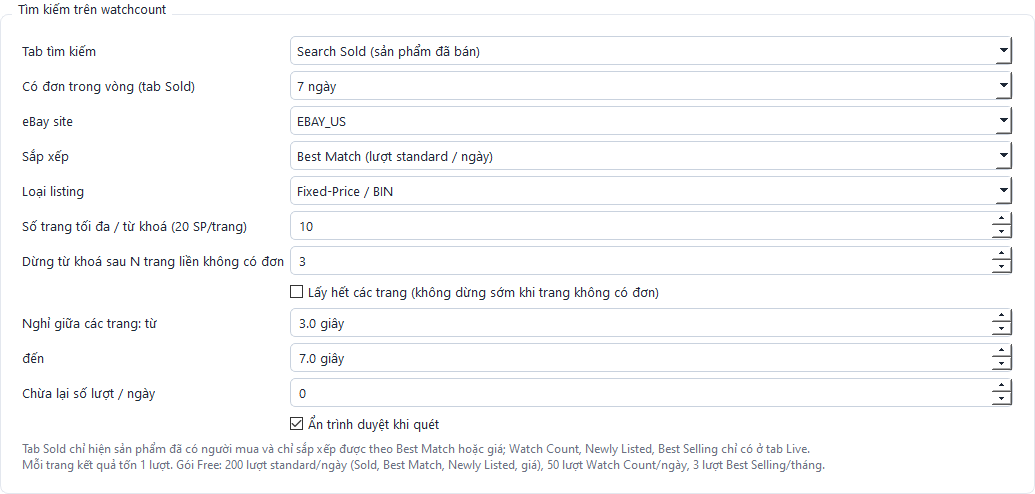
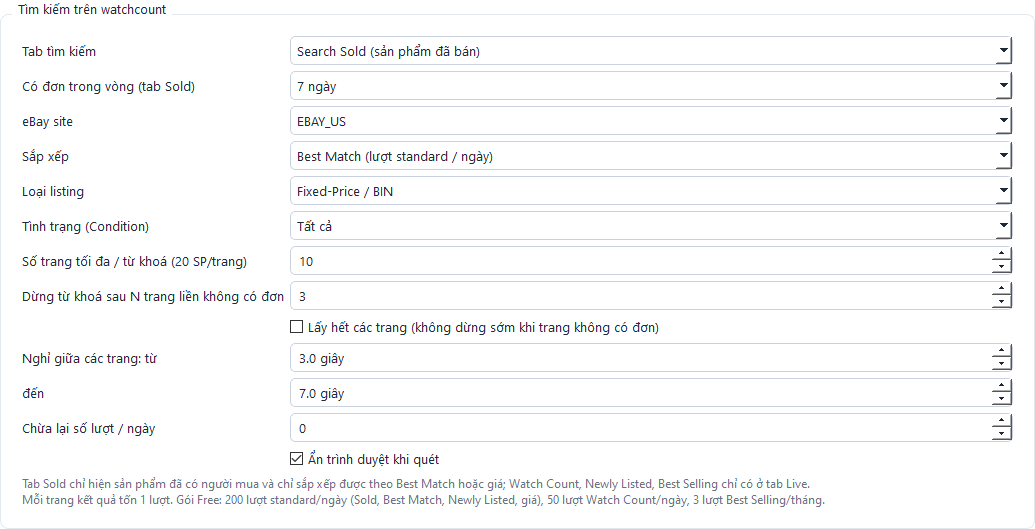
Thêm bộ lọc Condition + hướng dẫn cào giống link watchcount (v0.4.2)
Kiểm tra link sold/Personalized+suncatcher/-/all?condition=new&lastSoldDate=30days:
tool chưa gửi condition nên ra 169 thay vì 165, và bộ lọc mặc định Start <= 7 chỉ
giữ 1/167 sản phẩm. Sau khi thêm Condition và để trống bộ lọc, tool lấy 167 sản phẩm
qua 9 trang, link tool mở trùng với link web (trừ offset).

- Cài đặt quét: ô Tình trạng (Condition) Tất cả / New / Used, gửi tham số condition
- Log: ghi "link trang 1" của mỗi từ khoá để mở trên web so kết quả
- Hướng dẫn: mục 6 "Cào ra kết quả giống một link watchcount" (bảng đọc link, các
  bước chỉnh cài đặt, ảnh cài đặt và nhật ký), thêm câu hỏi "Tool ra ít hơn web"
- docs/watchcount-recon.md: giá trị condition và số liệu kiểm tra; tests: 73 test

diff --git a/tools/make_guide_images.py b/tools/make_guide_images.py
@@ -5,6 +5,7 @@ App chạy ẩn trên một thư mục data tạm với dữ liệu mẫu (tools
 database, phiên đăng nhập hay autostart thật. Ảnh sản phẩm tải từ eBay nên cần mạng.
 Ảnh trang xác minh reCAPTCHA chụp bằng Playwright với một profile trình duyệt mới.
 """
+import copy
 import json
 import sys
 import tempfile
@@ -112,6 +113,19 @@ def shoot_app() -> None:
     save(group(settings, "Bộ lọc"), "settings_filters.png")
     save(group(settings, "Chung"), "settings_general.png")
 
+    # 3b. Cài đặt khớp link mẫu ở mục "Cào giống một link watchcount" của trang Hướng dẫn
+    saved = copy.deepcopy(settings.cfg)
+    settings.cfg["search"].update(status="sold", last_sold_within="30days", site="EBAY_US", sort_by="bestmatch",
+                                  listing_type="all", condition="new", max_pages=10, stop_after_empty_pages=0)
+    for rule in settings.cfg["scan_filters"]:
+        rule["value"] = None
+    settings.load_from_config()
+    save(group(settings, "Tìm kiếm"), "link_search.png")
+    save(group(settings, "Bộ lọc"), "link_filters.png")
+    settings.cfg.clear()
+    settings.cfg.update(saved)
+    settings.load_from_config()
+
     # 4. Lịch quét
     win.nav.setCurrentRow(3)
     save(win, "schedule.png")
@@ -137,6 +151,25 @@ def shoot_app() -> None:
         win._log(line)
     win.nav.setCurrentRow(4)
     save(win, "log.png")
+
+    # 6b. Nhật ký của lần quét khớp link mẫu (số liệu thật, quét ngày 2026-10-05)
+    win.log_page.text.clear()
+    link = ("https://www.watchcount.com/sold/Personalized+suncatcher/-/all"
+            "?condition=new&lastSoldDate=30days&site=EBAY_US&sortBy=bestmatch")
+    for line in ["Bắt đầu quét (thủ công)", "Đang mở trình duyệt... (tab Sold)",
+                 "Lượt tìm kiếm còn lại (standard): 188",
+                 "[1/1] 'Personalized suncatcher' — tối đa 10 trang",
+                 f"   link trang 1: {link}",
+                 "   trang 1: 20 sản phẩm (20 mới), 20 đạt bộ lọc (tổng kết quả: 165)",
+                 "   trang 2: 20 sản phẩm (20 mới), 20 đạt bộ lọc (tổng kết quả: 165)",
+                 "   trang 3: 20 sản phẩm (20 mới), 20 đạt bộ lọc (tổng kết quả: 164)",
+                 "   trang 4: 20 sản phẩm (19 mới), 20 đạt bộ lọc (tổng kết quả: 164)",
+                 "   ...",
+                 "   trang 9: 11 sản phẩm (10 mới), 11 đạt bộ lọc (tổng kết quả: 165)",
+                 "Kết thúc (completed): 167 sản phẩm, 167 đạt bộ lọc, dùng 9 lượt"]:
+        win._log(line)
+    win.log_page.text.setFixedSize(1000, 235)
+    save(win.log_page.text, "link_log.png")
     win.tray.hide()
     win.close()
 

diff --git a/app/ui/pages/settings_page.py b/app/ui/pages/settings_page.py
@@ -78,6 +78,9 @@ class SettingsPage(QWidget):
         self.site = QComboBox()
         self.site.addItems(watchcount.SITES)
         self.sort_by = QComboBox()
+        self.condition = QComboBox()
+        for key, label in watchcount.CONDITIONS.items():
+            self.condition.addItem(label, key)
         self.listing_type = QComboBox()
         for key, label in watchcount.LISTING_TYPES.items():
             self.listing_type.addItem(label, key)
@@ -93,6 +96,7 @@ class SettingsPage(QWidget):
         form.addRow("eBay site", self.site)
         form.addRow("Sắp xếp", self.sort_by)
         form.addRow("Loại listing", self.listing_type)
+        form.addRow("Tình trạng (Condition)", self.condition)
         form.addRow("Số trang tối đa / từ khoá (20 SP/trang)", self.max_pages)
         form.addRow("Dừng từ khoá sau N trang liền không có đơn", self.stop_after_empty)
         form.addRow("", self.take_all_pages)
@@ -172,6 +176,7 @@ class SettingsPage(QWidget):
         self._fill_sorts(s["sort_by"])
         self.site.setCurrentText(s["site"])
         self.listing_type.setCurrentIndex(max(0, self.listing_type.findData(s["listing_type"])))
+        self.condition.setCurrentIndex(max(0, self.condition.findData(s.get("condition") or "")))
         self.max_pages.setValue(int(s["max_pages"]))
         take_all = int(s["stop_after_empty_pages"]) <= 0
         self.take_all_pages.setChecked(take_all)
@@ -192,6 +197,7 @@ class SettingsPage(QWidget):
         s["site"] = self.site.currentText()
         s["sort_by"] = self.sort_by.currentData()
         s["listing_type"] = self.listing_type.currentData()
+        s["condition"] = self.condition.currentData()
         if s["sort_by"] == "bestselling":
             s["listing_type"] = "fixedprice"  # watchcount only allows best selling on fixed-price listings
         s["max_pages"] = self.max_pages.value()

diff --git a/app/scraper/watchcount.py b/app/scraper/watchcount.py
@@ -51,6 +51,8 @@ LAST_SOLD_OPTIONS = {
     "": "Không giới hạn", "1day": "1 ngày", "2days": "2 ngày", "3days": "3 ngày", "7days": "7 ngày",
     "14days": "14 ngày", "30days": "30 ngày", "45days": "45 ngày", "60days": "60 ngày",
 }
+# bộ lọc "Condition" (tình trạng hàng) của watchcount, dùng cho cả hai tab
+CONDITIONS = {"": "Tất cả", "new": "New (hàng mới)", "used": "Used (hàng đã dùng)"}
 LISTING_TYPES = {"fixedprice": "Fixed-Price / BIN", "all": "Tất cả", "auction": "Đấu giá", "bestoffer": "Best Offer"}
 SITES = ["EBAY_US", "EBAY_GB", "EBAY_AU", "EBAY_CA", "EBAY_DE", "EBAY_FR", "EBAY_IT", "EBAY_ES"]
 
@@ -130,7 +132,8 @@ def valid_sort(status: str, sort_by: str) -> str:
 
 def build_search_url(keyword: str, site: str = "EBAY_US", sort_by: str = "bestmatch",
                      listing_type: str = "fixedprice", start_within: str | None = None, offset: int = 0,
-                     *, status: str = "live", last_sold_within: str | None = None) -> str:
+                     *, status: str = "live", last_sold_within: str | None = None,
+                     condition: str | None = None) -> str:
     status = status if status in STATUS_OPTIONS else "live"
     sort_params, _ = _SORT_PARAMS[valid_sort(status, sort_by)]
     params = {"site": site, **sort_params}
@@ -138,6 +141,8 @@ def build_search_url(keyword: str, site: str = "EBAY_US", sort_by: str = "bestma
         params["startTimeFrom"] = start_within
     if status == "sold" and last_sold_within:
         params["lastSoldDate"] = last_sold_within
+    if condition:
+        params["condition"] = condition
     if offset:
         params["offset"] = str(offset)
     query = "&".join(f"{k}={quote(str(v), safe='')}" for k, v in sorted(params.items()))

diff --git a/tests/test_core.py b/tests/test_core.py
@@ -362,6 +362,15 @@ def test_sold_tab_falls_back_to_best_match_for_live_only_sorts():
     assert url.endswith("?lastSoldDate=30days&site=EBAY_US&sortBy=price&sortOrder=desc")
 
 
+def test_sold_url_with_condition_matches_web_link():
+    # link mẫu trong trang Hướng dẫn, mục "Cào ra kết quả giống một link watchcount"
+    url = watchcount.build_search_url("Personalized suncatcher", "EBAY_US", "bestmatch", "all", None, 60,
+                                      status="sold", last_sold_within="30days", condition="new")
+    assert url == ("https://www.watchcount.com/sold/Personalized+suncatcher/-/all"
+                   "?condition=new&lastSoldDate=30days&offset=60&site=EBAY_US&sortBy=bestmatch")
+    assert "condition" not in watchcount.build_search_url("x", status="sold", condition="")
+
+
 def test_live_tab_ignores_last_sold_filter():
     url = watchcount.build_search_url("x", status="live", last_sold_within="7days")
     assert "lastSoldDate" not in url and "/live/" in url

diff --git a/app/core/scan_job.py b/app/core/scan_job.py
@@ -123,7 +123,10 @@ def run_scan(db: Database, cfg: dict, keywords: list[str], trigger: str,
                     break
                 url = watchcount.build_search_url(keyword, search_cfg["site"], sort_by,
                                                   search_cfg["listing_type"], start_within, offset,
-                                                  status=status, last_sold_within=last_sold_within)
+                                                  status=status, last_sold_within=last_sold_within,
+                                                  condition=search_cfg.get("condition") or None)
+                if page_no == 0:
+                    say(f"   link trang 1: {url}")  # mở link này trên web để so kết quả với tool
                 try:
                     result = _search_with_retry(client, url, say, cb.should_stop)
                 except watchcount.ChallengeError:

diff --git a/app/config.py b/app/config.py
@@ -17,6 +17,8 @@ DEFAULTS = {
         # tab Sold: chỉ lấy sản phẩm có đơn trong khoảng này ("" = không giới hạn)
         "last_sold_within": "7days",
         "site": "EBAY_US",
+        # tình trạng hàng: "" (tất cả) | new | used
+        "condition": "",
         # bestmatch/listdate -> standard quota, watchcount -> most-watched quota, bestselling -> monthly quota
         "sort_by": "bestmatch",
         "listing_type": "fixedprice",

diff --git a/app/app_version.py b/app/app_version.py
@@ -1,3 +1,3 @@
 APP_NAME = "Bestseller Crawler"
 APP_ID = "vgp-bestseller-crawler"
-APP_VERSION = "0.4.1"
+APP_VERSION = "0.4.2"

diff --git a/docs/watchcount-recon.md b/docs/watchcount-recon.md
@@ -141,3 +141,10 @@ ms-playwright\chromium_headless_shell-1228\chrome-headless-shell-win64\chrome-he
   khi quét tab Sold.
 - Con số watchcount hiện trên web với Last sold = 1 ngày: "glass suncatcher" 82, "Eileen Fisher" 378 (2026-09-30).
 - Mỗi lần mở trang, reCAPTCHA v3 chạy ngầm (`/recaptcha_verify`); profile đã qua xác minh thì không bị chặn.
+
+## Bộ lọc Condition (khảo sát 2026-10-05)
+- Tham số `condition`: `new` | `used`, bỏ trống là mọi tình trạng (ô chọn `.condition-input` trên web). Dùng được ở cả tab Sold và Live.
+- "Personalized suncatcher", `/sold/.../all`, `lastSoldDate=30days`: không condition 169, `condition=new` 165, `condition=used` 3.
+- Quét lại bằng tool với cùng điều kiện, bộ lọc để trống: 9 trang, 167 item không trùng (total dao động 164–165 khi lật
+  trang). Chỉ 1/167 item có Start ≤ 7 ngày, nên bộ lọc mặc định gần như loại hết.
+- Ở tab Sold, Best Match trả item theo `lastSoldDate` giảm dần.
